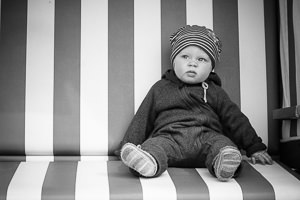
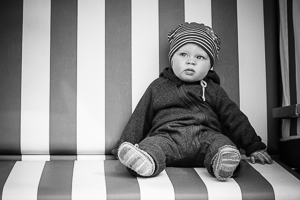
Trying to understand

diff --git a/_posts/images/projects/emil/2016-06-15-2016-06-15-3.md b/_posts/images/projects/emil/2016-06-15-2016-06-15-3.md
@@ -7,6 +7,6 @@ thumburl: /i/IMG_1899_thumb.jpg
 slideurl: 
 ---
 
-![]({{site.url}}/i/IMG_1899_thumb.jpg)
+![]({{site.url}}/i/IMG_1899.jpg)
 
 
